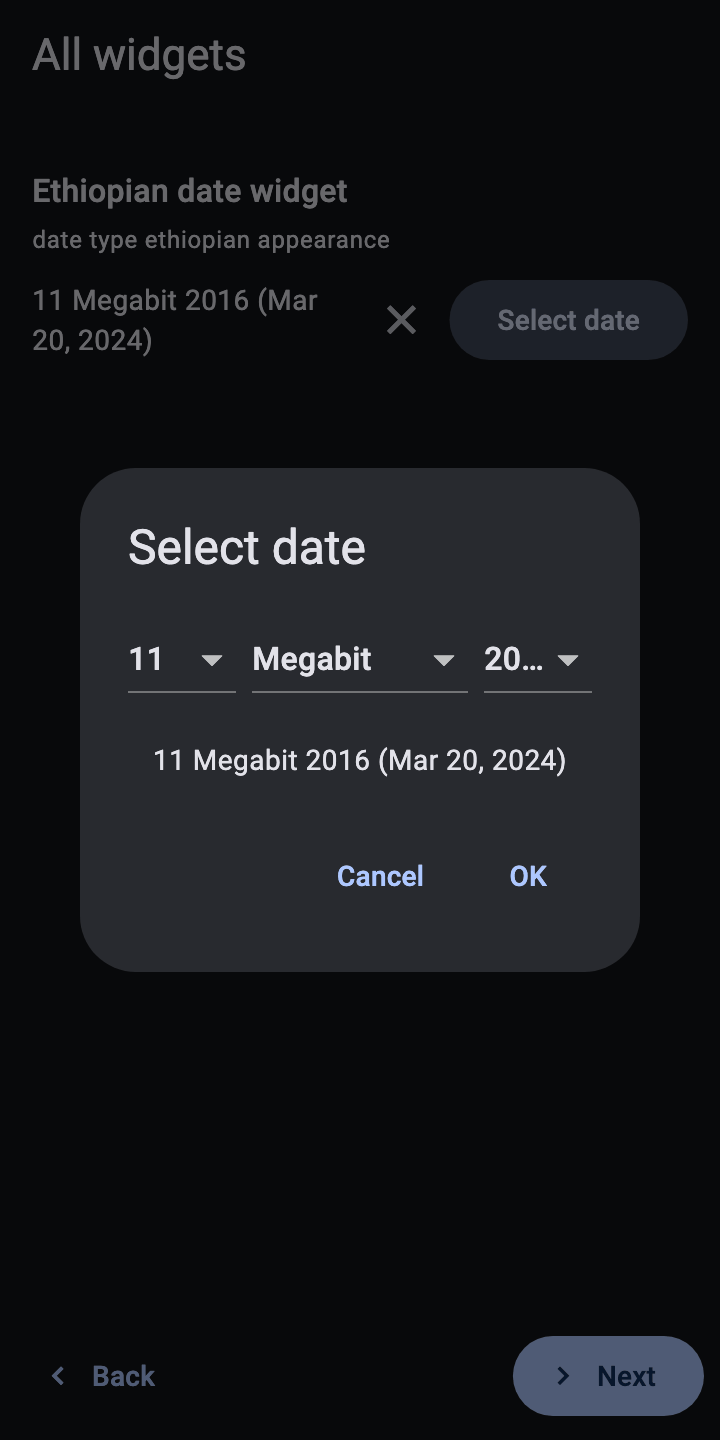
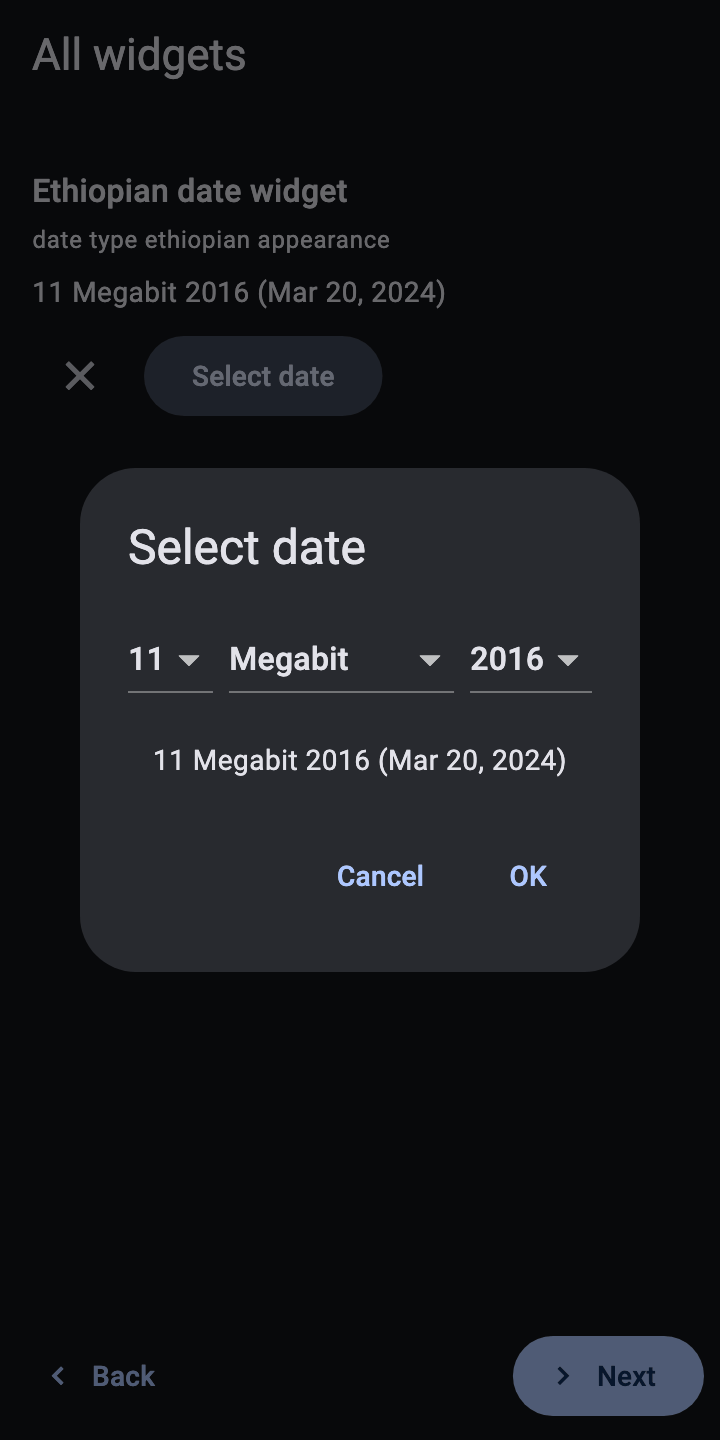
Docs checker as a repo tool; calendar dialog: day/year sized to content; screenshots refreshed

diff --git a/packages/dartrosa_flutter/lib/src/widgets/calendar_date_picker_dialog.dart b/packages/dartrosa_flutter/lib/src/widgets/calendar_date_picker_dialog.dart
@@ -4,16 +4,22 @@ import 'package:flutter/material.dart';
 import '../localizations.dart';
 
 /// One spinner of the dialog, a drop-down of [picker]'s values.
+///
+/// It fills the width it is given when [expand] is set (the month, whose
+/// names vary in length); otherwise it is as wide as its widest value
+/// (day and year numbers).
 class _Spinner extends StatelessWidget {
   const _Spinner({
     required this.name,
     required this.picker,
     required this.onChanged,
+    this.expand = false,
   });
 
   final String name;
   final NumberPickerState picker;
   final ValueChanged<int> onChanged;
+  final bool expand;
 
   @override
   Widget build(BuildContext context) {
@@ -22,7 +28,7 @@ class _Spinner extends StatelessWidget {
     final max = picker.maxValue < min ? min : picker.maxValue;
     return DropdownButton<int>(
       key: ValueKey('calendar-$name'),
-      isExpanded: true,
+      isExpanded: expand,
       value: picker.value.clamp(min, max),
       items: [
         for (var v = min; v <= max; v++)
@@ -95,33 +101,31 @@ class _CustomCalendarDatePickerDialogState
           Row(
             children: [
               if (_model.showsDay) ...[
-                Expanded(
-                  child: _Spinner(
-                    name: 'day',
-                    picker: _model.dayPicker,
-                    onChanged: (v) => setState(() => _model.setDay(v)),
-                  ),
+                _Spinner(
+                  name: 'day',
+                  picker: _model.dayPicker,
+                  onChanged: (v) => setState(() => _model.setDay(v)),
                 ),
                 const SizedBox(width: 8),
               ],
               if (_model.showsMonth) ...[
                 Expanded(
-                  flex: 2,
                   child: _Spinner(
                     name: 'month',
                     picker: _model.monthPicker,
                     onChanged: (v) => setState(() => _model.setMonth(v)),
+                    expand: true,
                   ),
                 ),
                 const SizedBox(width: 8),
               ],
-              Expanded(
-                child: _Spinner(
-                  name: 'year',
-                  picker: _model.yearPicker,
-                  onChanged: (v) => setState(() => _model.setYear(v)),
-                ),
+              _Spinner(
+                name: 'year',
+                picker: _model.yearPicker,
+                onChanged: (v) => setState(() => _model.setYear(v)),
               ),
+              // In year mode the year is alone; keep it at the start.
+              if (!_model.showsMonth) const Spacer(),
             ],
           ),
           const SizedBox(height: 16),

diff --git a/tool/check_core_purity.dart b/tool/check_core_purity.dart
@@ -1,5 +1,5 @@
 // Fails if a pure-Dart core package imports something that would stop it
-// running on every platform (web, server, Flutter). See PORTING_PLAN.md §3.
+// running on every platform (web, server, Flutter). See docs/development/PORTING_PLAN.md §3.
 import 'dart:io';
 
 const corePackages = [

diff --git a/tool/check_coverage.dart b/tool/check_coverage.dart
@@ -1,5 +1,5 @@
 // Fails when line coverage of packages/dartrosa/lib (from an lcov file)
-// is below the minimum (PORTING_PLAN §10.2).
+// is below the minimum (docs/development/PORTING_PLAN.md §10.2).
 //
 //   dart run tool/check_coverage.dart coverage/lcov.info [minimumPercent]
 import 'dart:io';

diff --git a/tool/check_docs.py b/tool/check_docs.py
@@ -1,0 +1,78 @@
+#!/usr/bin/env python3
+"""Checks relative links (and #anchors) in the repository's Markdown files,
+and that every SVG in docs/images parses as XML."""
+import os
+import re
+import sys
+import xml.dom.minidom
+
+root = sys.argv[1] if len(sys.argv) > 1 else os.path.dirname(os.path.dirname(os.path.abspath(__file__)))
+skip_dirs = {'.dart_tool', '.git', 'build', 'node_modules', '.claude'}
+allowed_missing = ()
+
+
+def slug(heading):
+    s = heading.strip().lower()
+    s = re.sub(r'[`*_]', '', s)
+    s = re.sub(r'\[([^\]]*)\]\([^)]*\)', r'\1', s)
+    s = re.sub(r'[^\w\- ]', '', s)
+    return s.replace(' ', '-')
+
+
+def anchors(path):
+    out = set()
+    in_code = False
+    for line in open(path, encoding='utf-8'):
+        if line.startswith('```'):
+            in_code = not in_code
+        if not in_code and line.startswith('#'):
+            out.add(slug(line.lstrip('#')))
+    return out
+
+
+md_files = []
+for dirpath, dirnames, filenames in os.walk(root):
+    dirnames[:] = [d for d in dirnames if d not in skip_dirs]
+    rel = os.path.relpath(dirpath, root)
+    if rel.startswith('conformance/forms'):
+        continue
+    for f in filenames:
+        if f.endswith('.md'):
+            md_files.append(os.path.join(dirpath, f))
+
+link_re = re.compile(r'!?\[[^\]]*\]\(([^)\s]+)(?:\s+"[^"]*")?\)')
+problems = []
+count = 0
+for md in md_files:
+    text = open(md, encoding='utf-8').read()
+    text = re.sub(r'```.*?```', '', text, flags=re.S)
+    text = re.sub(r'`[^`\n]*`', '', text)
+    for target in link_re.findall(text):
+        if re.match(r'^[a-z]+:', target):
+            continue
+        count += 1
+        path, _, anchor = target.partition('#')
+        dest = os.path.normpath(os.path.join(os.path.dirname(md), path)) if path else md
+        rel = os.path.relpath(dest, root)
+        if not os.path.exists(dest):
+            if rel.startswith(allowed_missing):
+                continue
+            problems.append(f'{os.path.relpath(md, root)}: missing {target}')
+            continue
+        if anchor and dest.endswith('.md') and anchor not in anchors(dest):
+            problems.append(f'{os.path.relpath(md, root)}: no anchor {target}')
+
+svgs = 0
+for dirpath, _, filenames in os.walk(os.path.join(root, 'docs/images')):
+    for f in filenames:
+        if f.endswith('.svg'):
+            svgs += 1
+            try:
+                xml.dom.minidom.parse(os.path.join(dirpath, f))
+            except Exception as e:  # noqa: BLE001
+                problems.append(f'{f}: {e}')
+
+print(f'{len(md_files)} Markdown files, {count} relative links, {svgs} SVGs')
+for p in problems:
+    print(p)
+sys.exit(1 if problems else 0)
